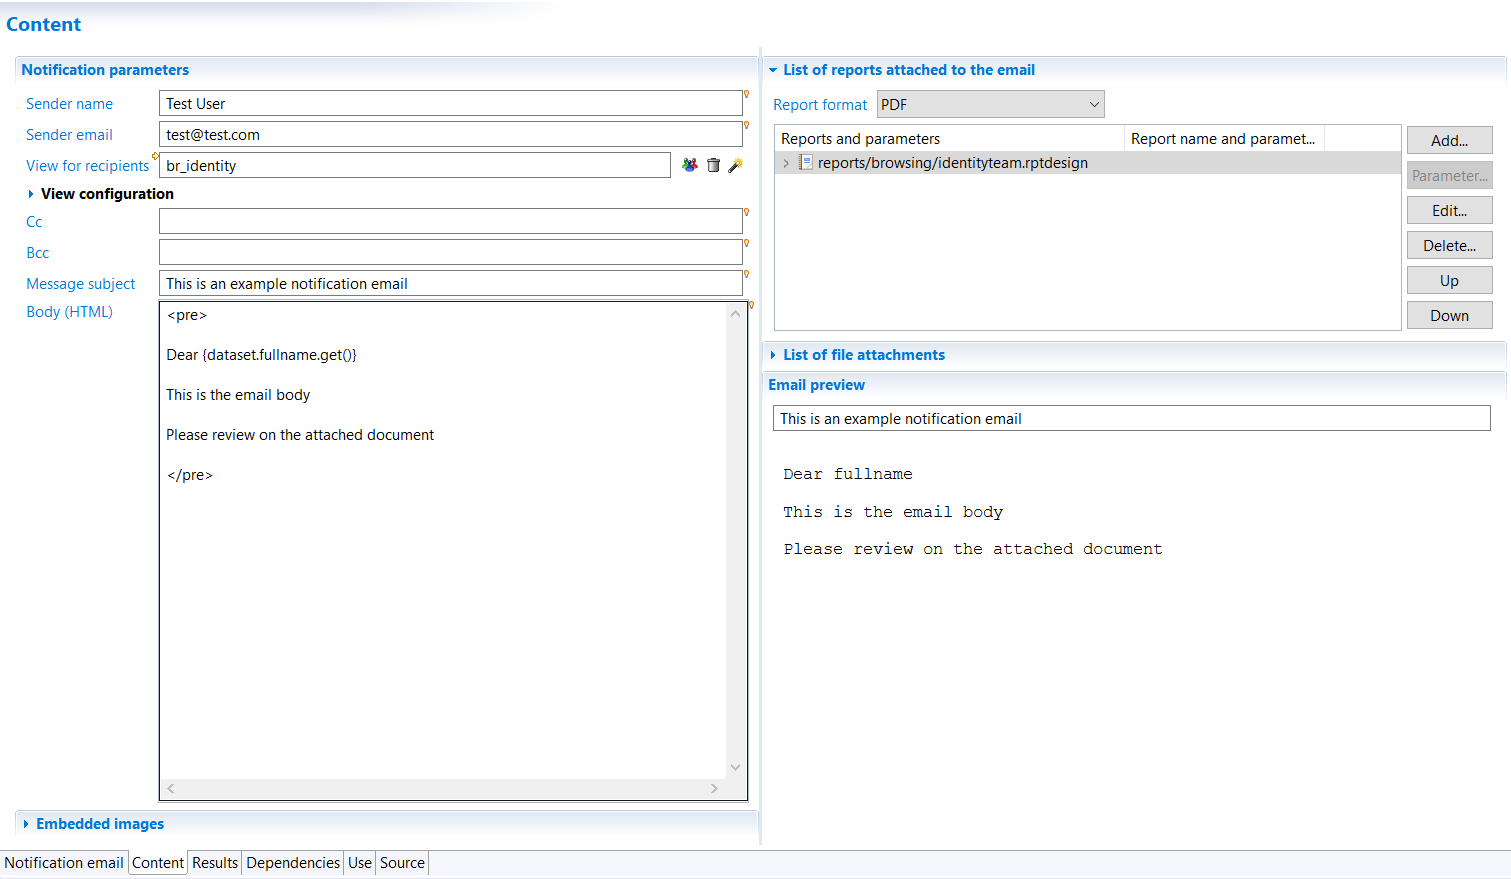
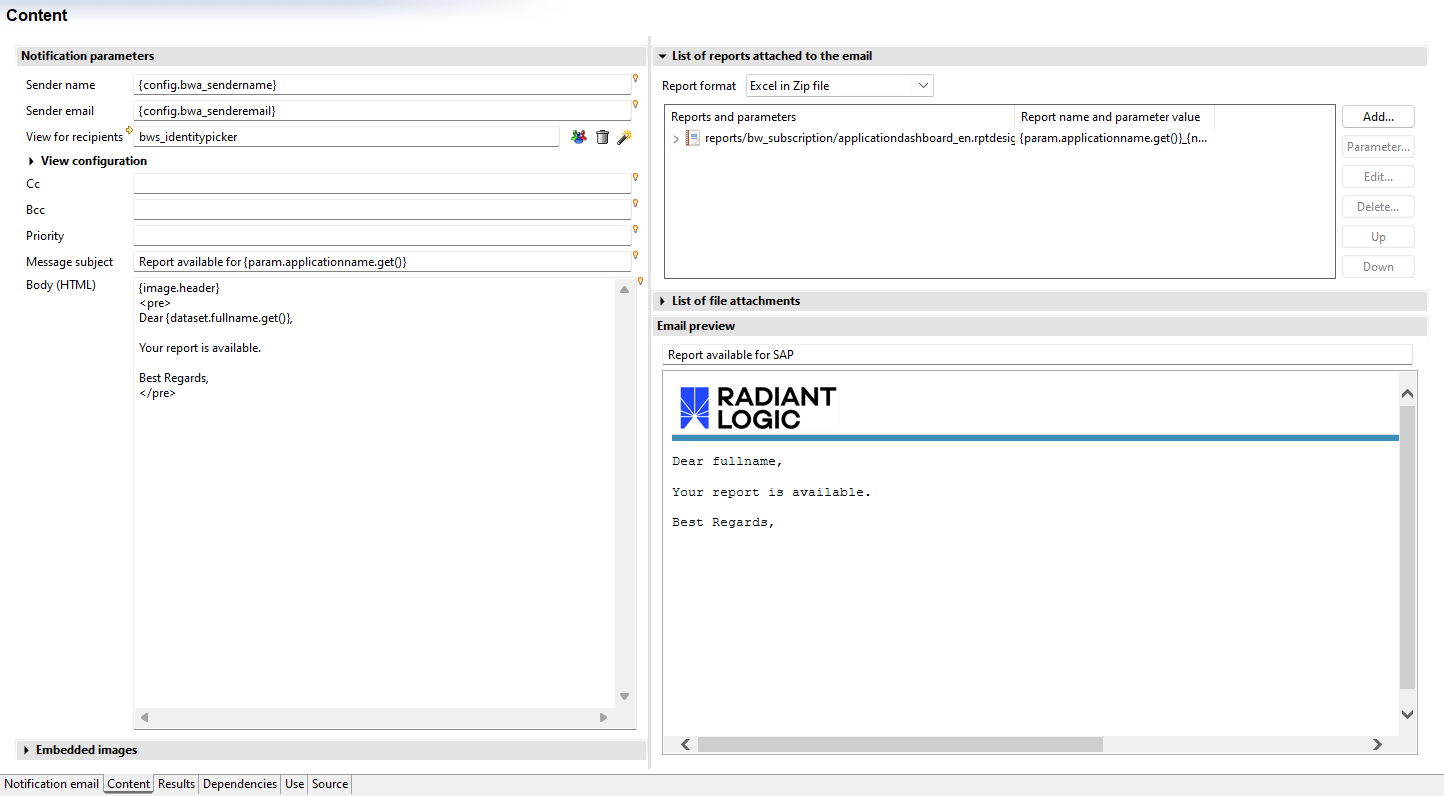
Add documentation on mail priority

Changed region(s): [[0.0, 0.0, 0.9972, 0.8744], [0.0, 0.8744, 1.0, 1.0], [0.9661, 0.0603, 0.9972, 0.0905]]

diff --git a/documentation/igrc-platform/notification-rules/01-using-the-editor.md b/documentation/igrc-platform/notification-rules/01-using-the-editor.md
@@ -25,6 +25,14 @@ It is possible to specify a "CC e-mail list" and a "BCC e-mail list" to have oth
 
 > Use the comma character `,` as a separator if multiple addresses are added to the `cc` ob `bcc` field (e.g. `security@acme.corp, contact@contoso.com`)
 
+It is possible to specify a "Priority" to set a level of priority to each email sent. The level of priority goes from 1 to 5 (1 is the highest priority).
+
+![Priority](./images/screenshot-1.png "Priority")  
+
+> Customize the priority field by using [Macros](./03-macros) by, for example, sending an email with a priority of 1 to a specific person and an email with a priority of 5 to everyone else.
+
+![Content priority](./images/notification-priority.png "Content Priority")  
+
 The "Message subject" field corresponds to the subject of the message. As it is the case in most email applications, this is a one line text field. It is possible to customize it with the recipient's information like his name for instance. This personalization of these field can be done using macros that are explained here: [Macros](./03-macros).  
 
 The "Body (HTML)" is the body of the message. The content has to be written using the HTML language. This editor does not a behave as a WYSIWYG (What You See Is What You Get) but is a text editor in which you add HTML tags. To help you configure the layout of the email there is a preview panel on the right side of the editor. This panel shows in real time the final aspect of the email for the recipient. The HTML edition allows the use a template that can be provided by the client. As it is the case for the previous parameters it is possible to customize the email body with information from the ledger. The macro `{dataset.fullname.get()}` for example can be used to add the fullname of the recipient. You can list available information in Dataset entry while clicking on the little light bulb near the Body section.  
